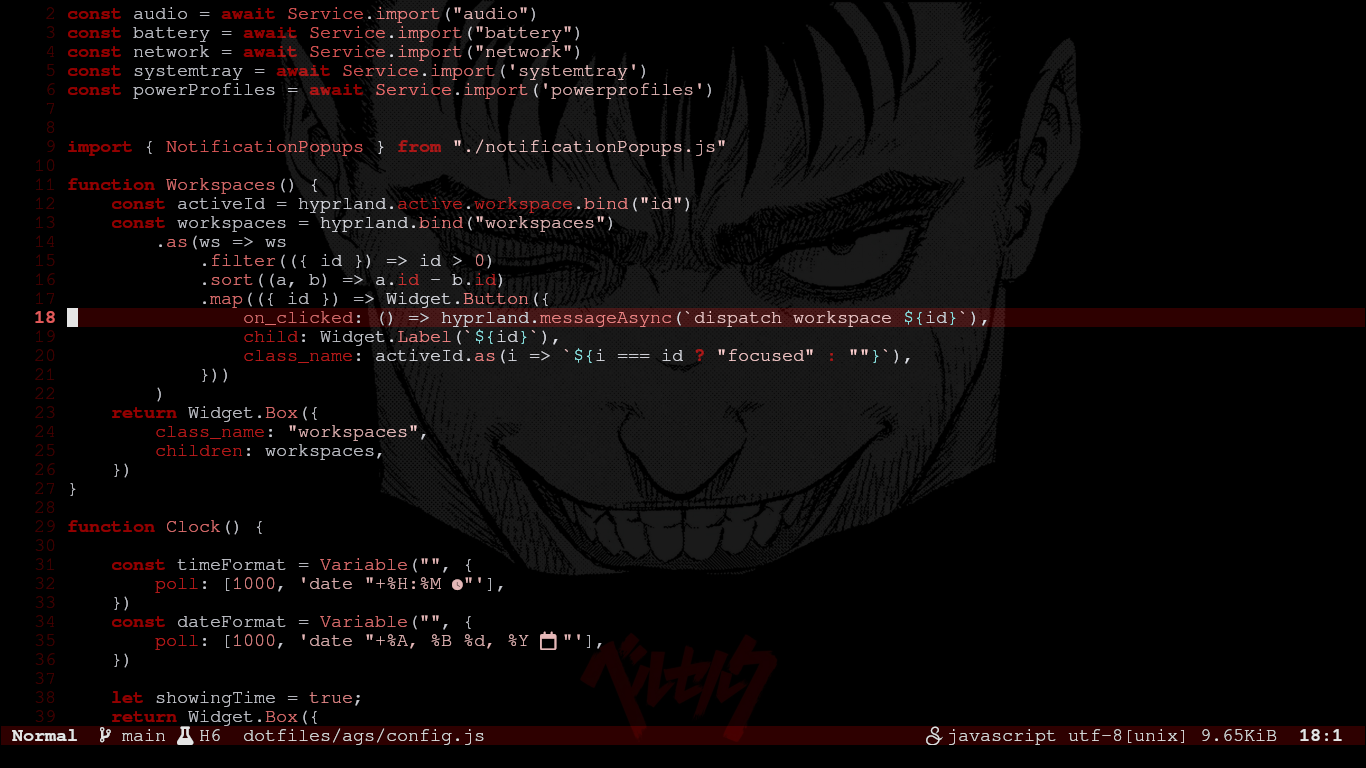
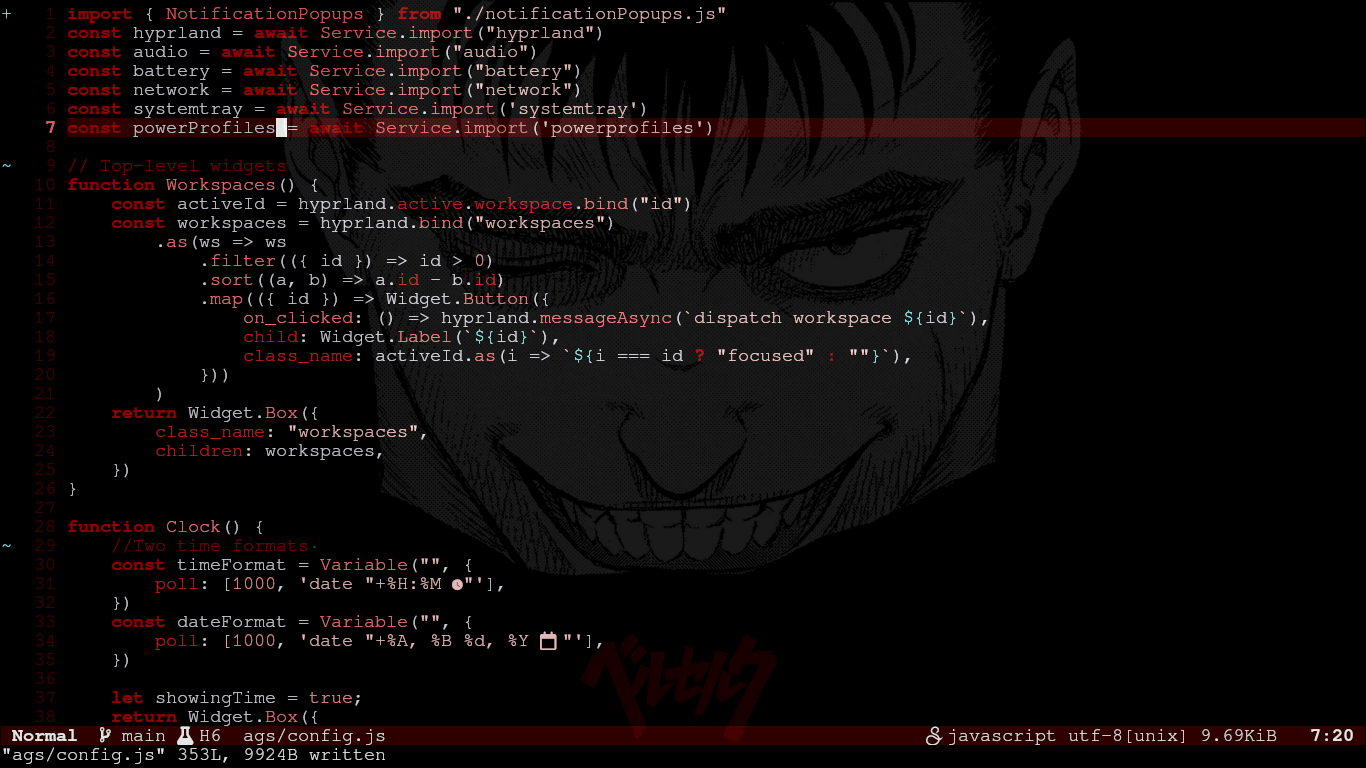
Readded preview

diff --git a/ags/config.js b/ags/config.js
@@ -1,3 +1,4 @@
+import { NotificationPopups } from "./notificationPopups.js"
 const hyprland = await Service.import("hyprland")
 const audio = await Service.import("audio")
 const battery = await Service.import("battery")
@@ -5,9 +6,7 @@ const network = await Service.import("network")
 const systemtray = await Service.import('systemtray')
 const powerProfiles = await Service.import('powerprofiles')
 
-
-import { NotificationPopups } from "./notificationPopups.js"
-
+// Top-level widgets
 function Workspaces() {
     const activeId = hyprland.active.workspace.bind("id")
     const workspaces = hyprland.bind("workspaces")
@@ -27,7 +26,7 @@ function Workspaces() {
 }
 
 function Clock() {
-
+    //Two time formats 
     const timeFormat = Variable("", {
         poll: [1000, 'date "+%H:%M "'],
     })
